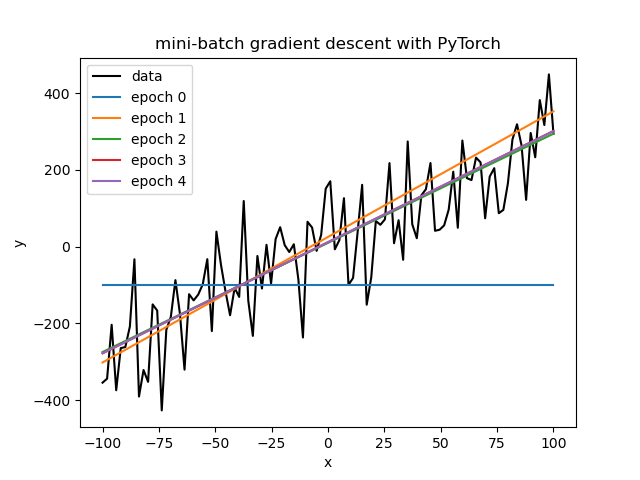
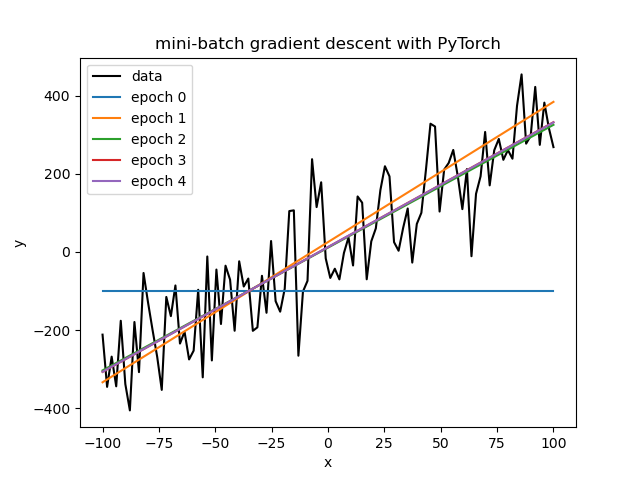
LR the PyTorchway-- but only one learning rate.

diff --git a/LR_miniBatch_PyTorchWay.py b/LR_miniBatch_PyTorchWay.py
@@ -1,0 +1,84 @@
+#!/usr/bin/env python
+
+import torch
+import numpy as np
+import matplotlib.pyplot as plt
+from torch.utils.data import Dataset, DataLoader
+from torch import nn, optim
+
+#create noisy data
+class noisyLineData(Dataset):
+    def __init__(self, N=100, slope=3, intercept=2, stdDev=100):
+        self.x = torch.linspace(-100,100,N).view(-1,1)
+        noise = torch.normal( mean=torch.zeros(N), std= stdDev * torch.ones(N) ).view(-1,1)
+        self.y = slope*self.x + intercept + noise
+    
+    def __getitem__(self, index):
+        return self.x[index], self.y[index]
+
+    def __len__(self):
+        return len(self.x)        
+
+data = noisyLineData()
+trainloader = DataLoader(dataset = data, batch_size = 15)
+
+# create my "own" linear regression model 
+class linear_regression(nn.Module):
+    def __init__(self, input_size, output_size):
+        #call the super's constructor and use it without having to store it directly. 
+        super(linear_regression, self).__init__()
+        self.linear = nn.Linear(input_size, output_size)
+    
+    def forward(self, x):
+        """Prediction"""
+        return self.linear(x)
+    
+criterion = nn.MSELoss()
+
+model = linear_regression(1,1)
+model.state_dict()['linear.weight'][0] = 0
+model.state_dict()['linear.bias'][0] = -100
+
+optimizer = optim.SGD(model.parameters(), lr = 1e-4)
+
+def train_model(epochs):
+
+    ERROR = []
+    PARAMS = []
+
+    for epoch in range(epochs):
+
+        PARAMS.append([model.state_dict()['linear.weight'].numpy()[0][0],
+                        model.state_dict()['linear.bias'].numpy()[0], epoch])
+
+        for x,y in trainloader:            
+            yhat = model(x)
+            loss = criterion(yhat,y)
+            optimizer.zero_grad()
+            loss.backward()
+            optimizer.step()
+
+            ERROR.append(loss.data)
+    
+    return PARAMS, ERROR
+
+
+PARAMS, ERROR = train_model(4)
+#Simple display of the learning 
+
+
+plt.figure()
+plt.plot(data.x.numpy(), data.y.numpy(), 'k', label="data")
+for param in PARAMS:
+    plt.plot(data.x.numpy(),param[0]*data.x.numpy()+param[1], label = f'epoch {int(param[2])}')
+plt.legend()
+plt.title("mini-batch gradient descent with PyTorch")
+plt.xlabel('x')
+plt.ylabel('y')
+plt.savefig('./figs/LR_miniBatch_PyTorchway.png')
+
+plt.figure()
+plt.plot(ERROR)
+plt.title("Error")
+plt.xlabel('batch')
+plt.ylabel('error')
